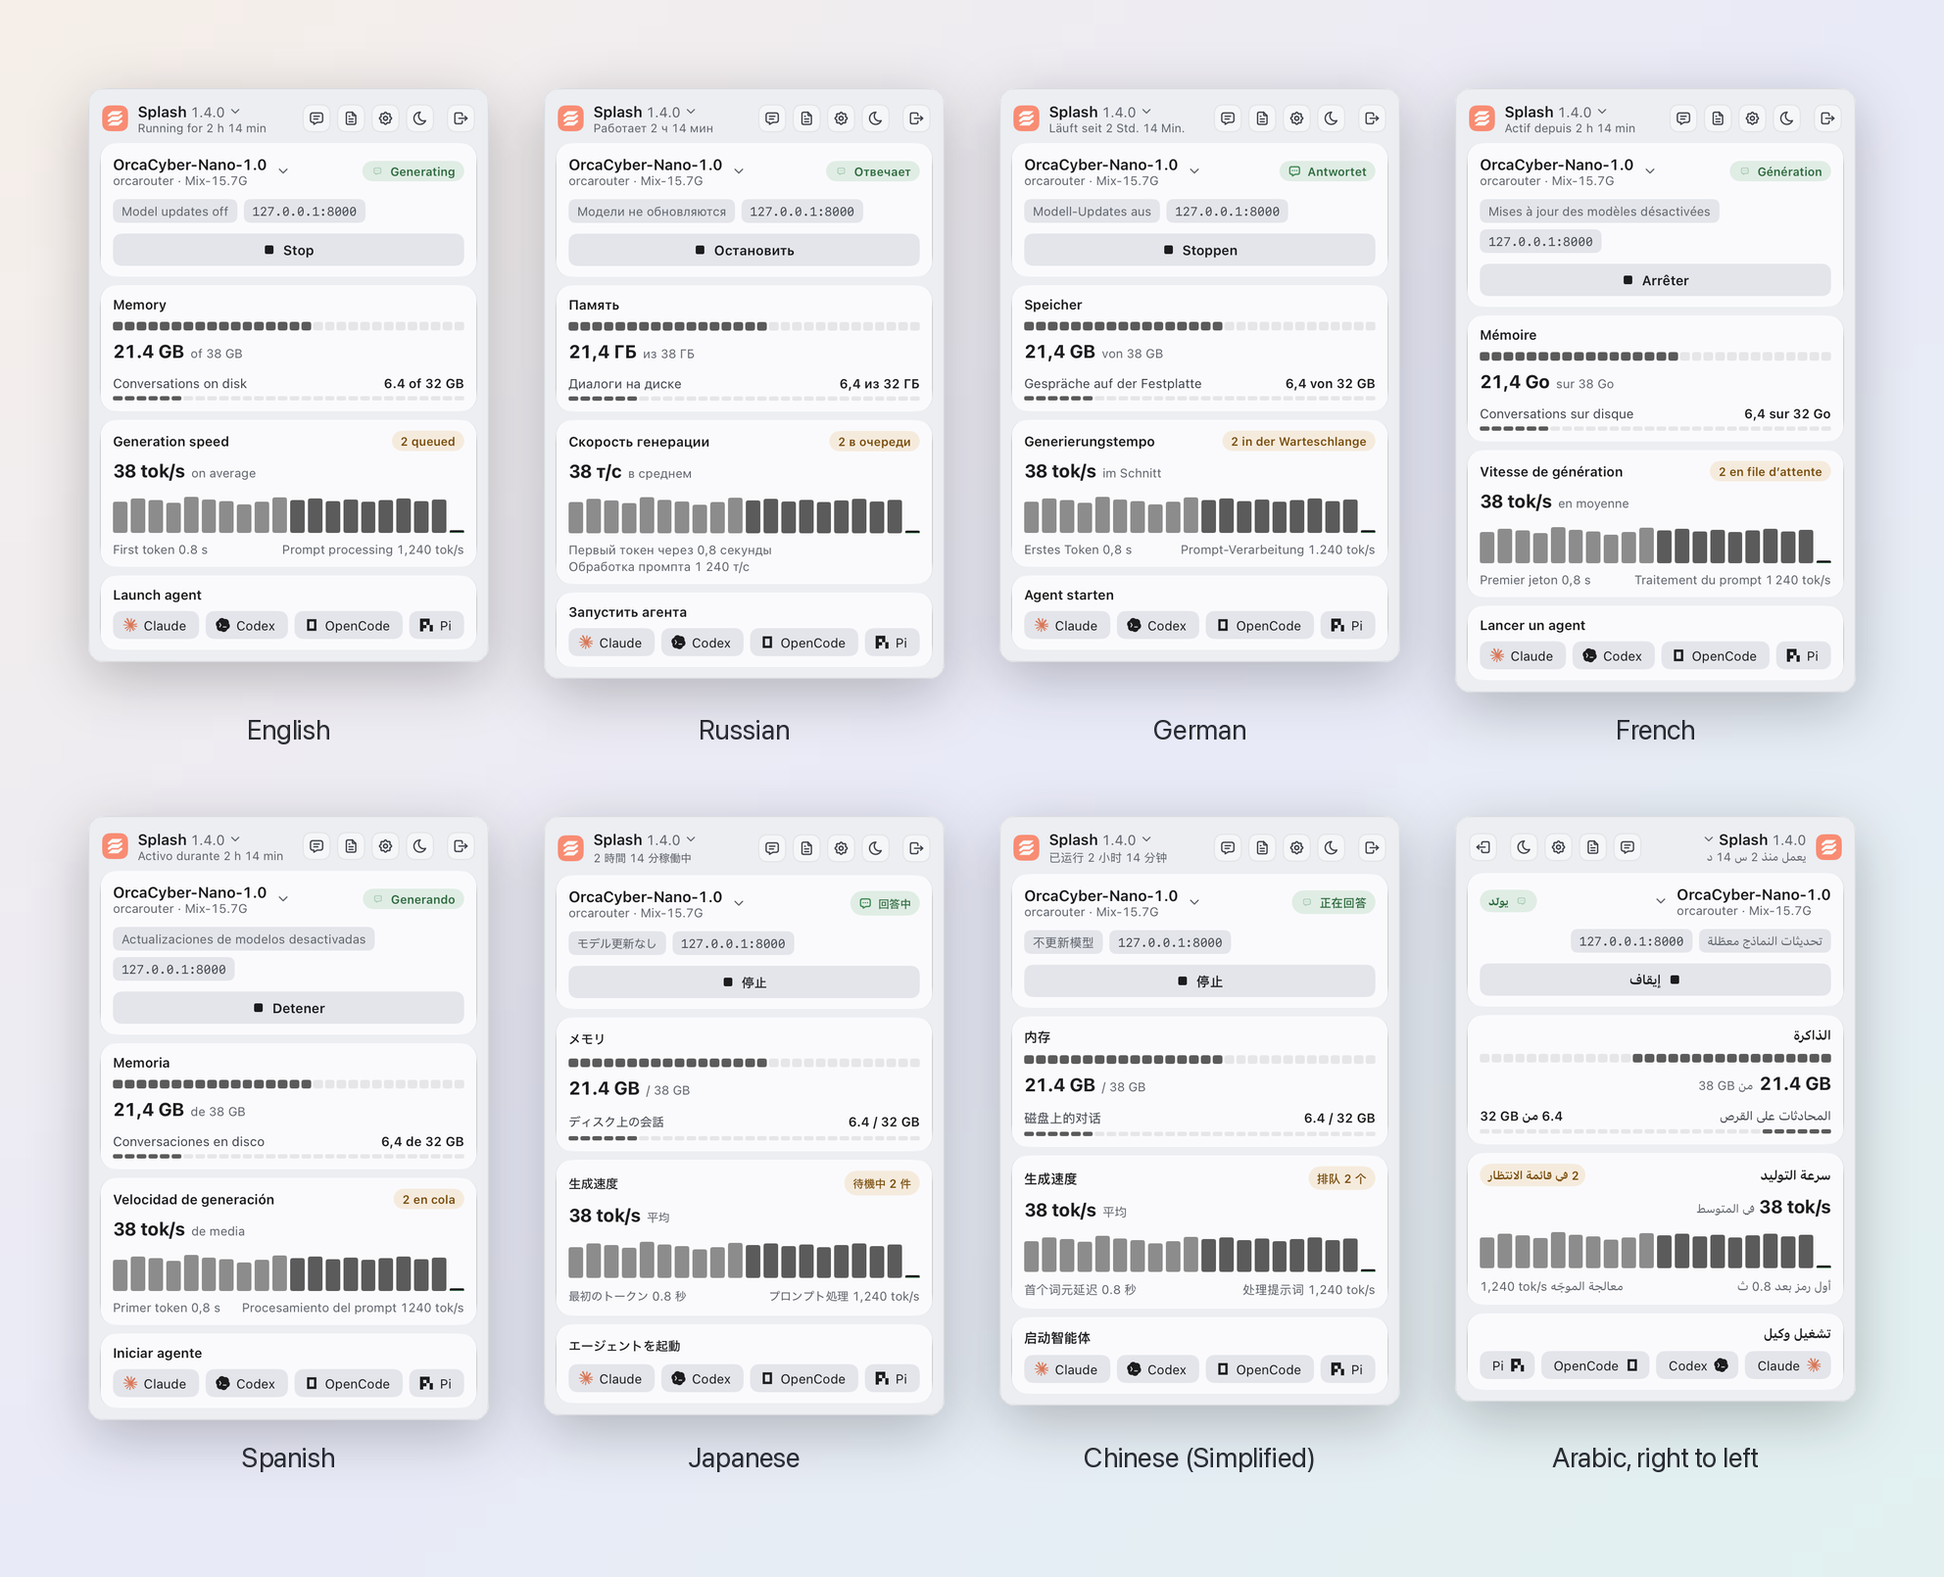
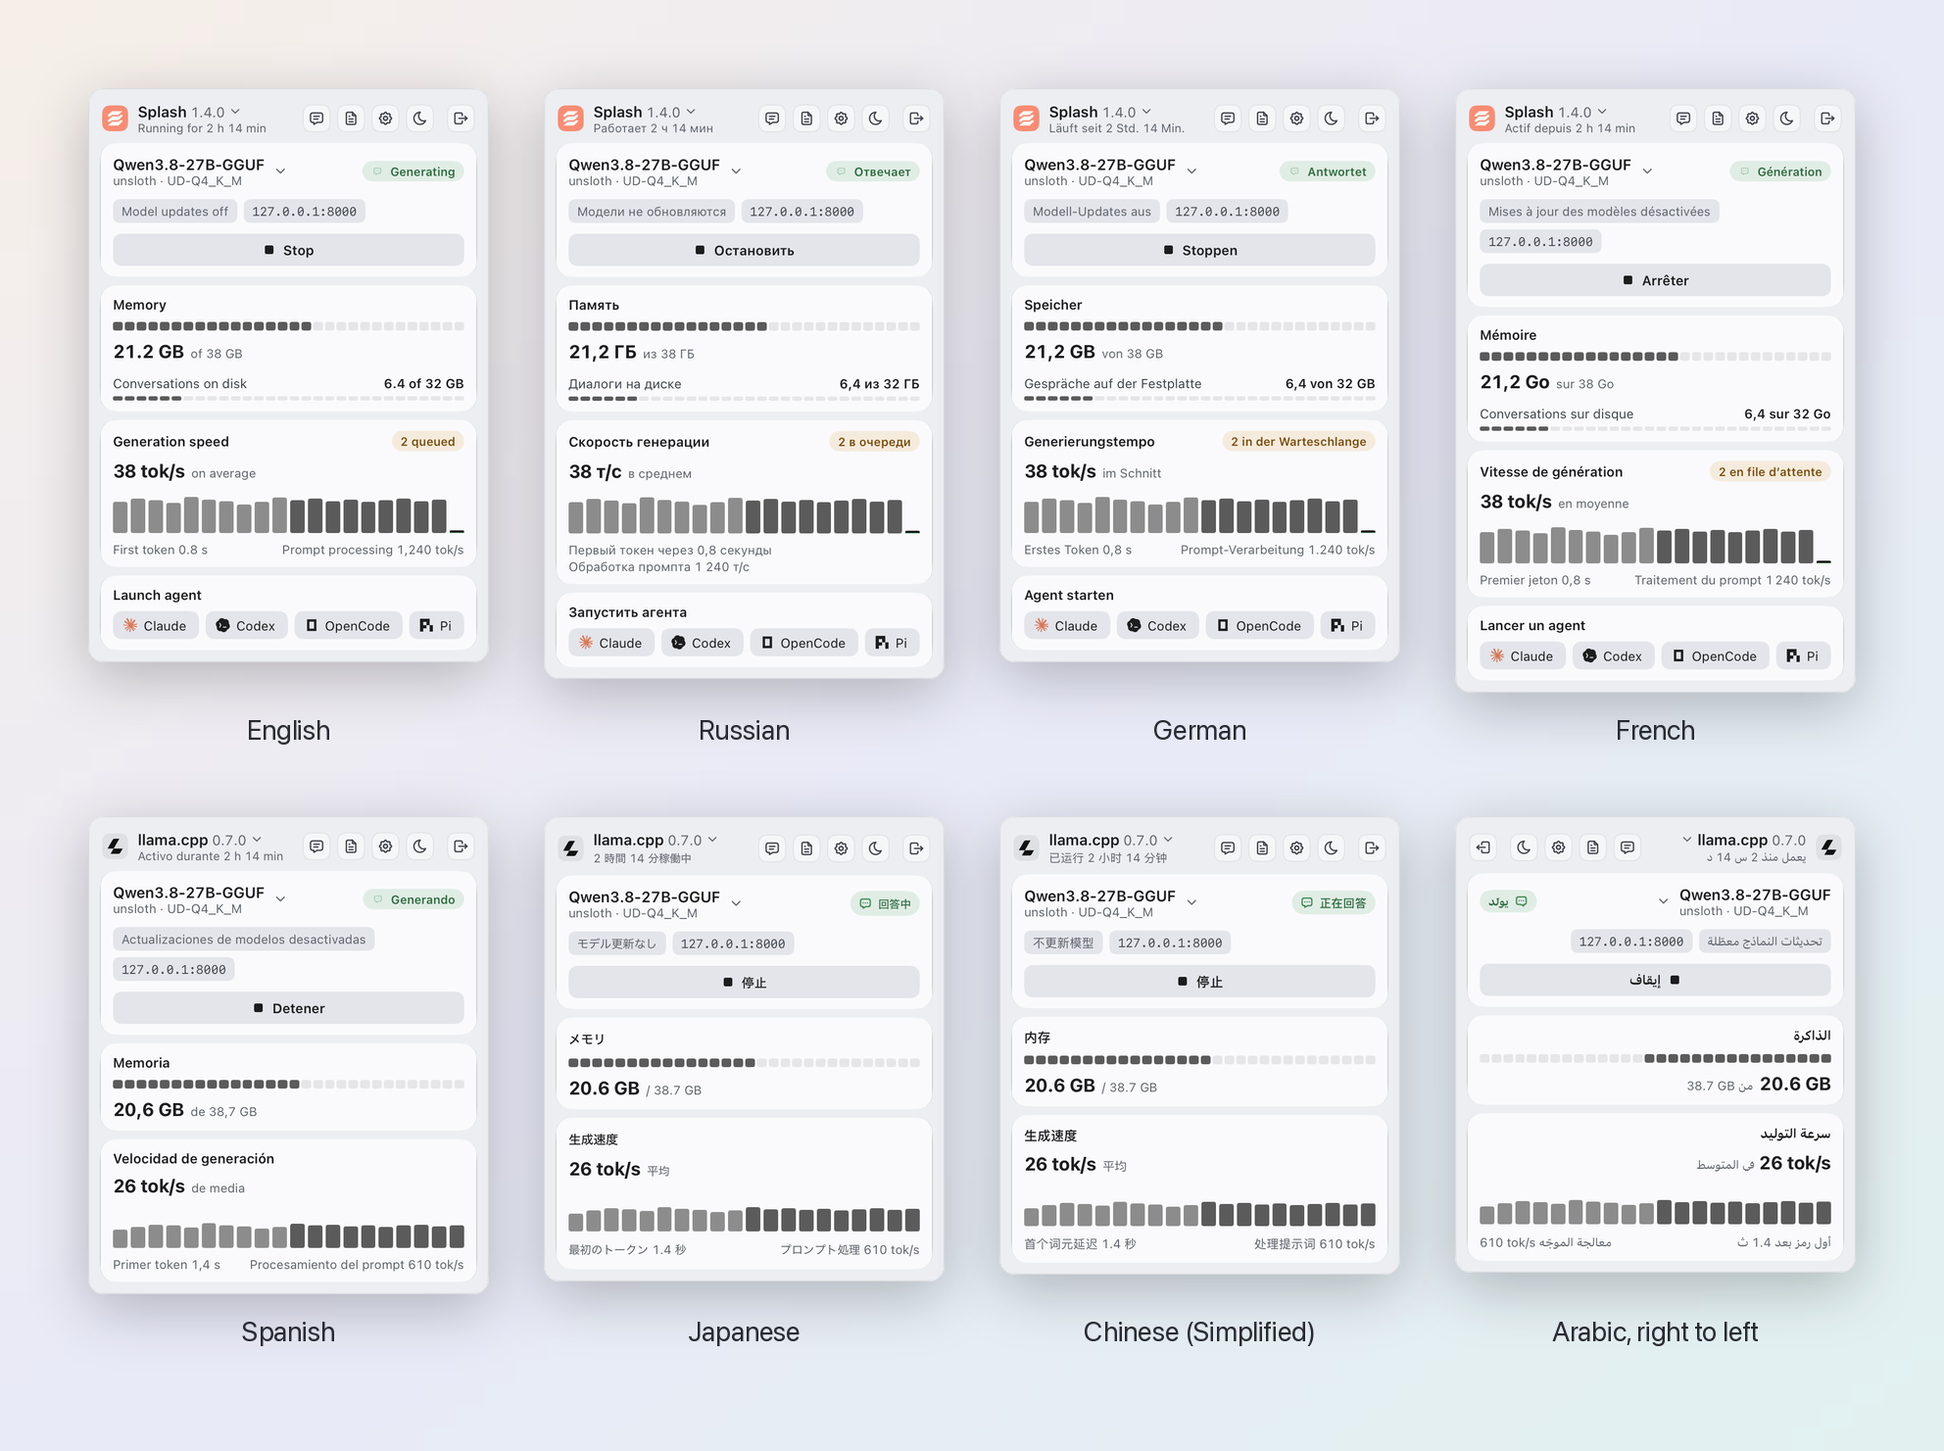
README: screenshots of both engines with Qwen3.8-27B, light and dark side by side
The README boards (readme-* in internal/panel/readme_test.go) run
Qwen3.8-27B and Qwen3.6-35B-A3B under llama.cpp and Splash: the hero is
llama.cpp downloading and generating beside Splash looking up variants,
the features and the languages mix the engines, the menu-bar strip takes
turns. llama.cpp shows memory in the menu bar while it generates, as it
reports no live speed. A new themes.png shows one panel in both themes.

diff --git a/internal/panel/readme_test.go b/internal/panel/readme_test.go
@@ -1,0 +1,185 @@
+package panel
+
+import (
+	"slices"
+	"time"
+
+	"github.com/egoist/mygo/ui"
+
+	"github.com/kotuke/lumilo/internal/core"
+	"github.com/kotuke/lumilo/internal/engine"
+	"github.com/kotuke/lumilo/internal/engines/llamacpp"
+	"github.com/kotuke/lumilo/internal/format"
+	"github.com/kotuke/lumilo/internal/hf"
+	"github.com/kotuke/lumilo/locales"
+)
+
+// The README's models: the two Qwen models Lumilo suggests, at the sizes of
+// unsloth's UD-Q4_K_M files on Hugging Face (2026-10-28).
+var (
+	qwen38Llama = engine.Model{ID: "/hub/models--unsloth--Qwen3.8-27B-GGUF/snapshots/c/Qwen3.8-27B-UD-Q4_K_M.gguf",
+		Name: "Qwen3.8-27B-GGUF", Owner: "unsloth", Variant: "UD-Q4_K_M", SizeBytes: 16_464_440_224,
+		ContextLength: 262144}
+	qwen36Llama = engine.Model{ID: "/hub/models--unsloth--Qwen3.6-35B-A3B-GGUF/snapshots/c/Qwen3.6-35B-A3B-UD-Q4_K_M.gguf",
+		Name: "Qwen3.6-35B-A3B-GGUF", Owner: "unsloth", Variant: "UD-Q4_K_M", SizeBytes: 22_134_528_992,
+		ContextLength: 262144}
+	qwen38Splash = engine.Model{ID: "unsloth/Qwen3.8-27B-GGUF:UD-Q4_K_M", Name: "Qwen3.8-27B-GGUF",
+		Owner: "unsloth", Variant: "UD-Q4_K_M", SizeBytes: 16_464_440_224, ContextLength: 262144,
+		Features: engine.Features{Vision: true, VisionBytes: 927_606_848, Drafts: []engine.Draft{{
+			Kind: engine.DraftDFlash, Name: "incoai/Qwen3.8-27B-DFlash2", ID: "incoai/Qwen3.8-27B-DFlash2",
+			SizeBytes: 1_266_000_000, Always: true}}}}
+	qwen36Splash = engine.Model{ID: "unsloth/Qwen3.6-35B-A3B-GGUF:UD-Q4_K_M", Name: "Qwen3.6-35B-A3B-GGUF",
+		Owner: "unsloth", Variant: "UD-Q4_K_M", SizeBytes: 22_134_528_992, ContextLength: 262144}
+	// qwen36Download is Qwen3.6-35B-A3B as typed, before its files are on disk.
+	qwen36Download = engine.Model{ID: "unsloth/Qwen3.6-35B-A3B-GGUF:UD-Q4_K_M", Owner: "unsloth",
+		Name: "Qwen3.6-35B-A3B-GGUF", Variant: "UD-Q4_K_M"}
+)
+
+// qwen36Variants are some of unsloth/Qwen3.6-35B-A3B-GGUF's files.
+var qwen36Variants = []hf.Variant{
+	{Tag: "UD-Q4_K_M", Bytes: 22_134_528_992, Parts: 1},
+	{Tag: "UD-IQ4_XS", Bytes: 17_730_509_792, Parts: 1},
+	{Tag: "MXFP4_MOE", Bytes: 21_706_144_736, Parts: 1},
+	{Tag: "UD-Q6_K", Bytes: 29_308_320_736, Parts: 1},
+	{Tag: "Q8_0", Bytes: 36_903_140_320, Parts: 1},
+}
+
+// readmeLlama is llama.cpp serving Qwen3.8-27B: a dense 27B model runs
+// slower than the mockup's sample, and llama.cpp reports no budget nor
+// conversations on disk.
+func readmeLlama(ph core.Phase) core.View {
+	v := llamaView()
+	v.Phase = ph
+	v.Model, v.Models = qwen38Llama, []engine.Model{qwen38Llama, qwen36Llama}
+	v.Snapshot.Model, v.Snapshot.MemoryUsed = qwen38Llama.ID, 20_100_000_000
+	v.Speed.History = nil
+	for _, s := range sampleHistory {
+		v.Speed.History = append(v.Speed.History, s*0.68)
+	}
+	v.Speed.Average, v.Speed.FirstToken, v.Speed.Read = 26, 1400*time.Millisecond, 610
+	if ph == core.PhaseGenerating {
+		// llama-server counts a request's tokens when it ends: no live speed.
+		v.Snapshot.MemoryUsed, v.Snapshot.Active = 20_600_000_000, 1
+	}
+	return v
+}
+
+// readmeSplash is Splash serving Qwen3.8-27B with its DFlash2 draft.
+func readmeSplash(ph core.Phase) core.View {
+	v := withPhase(ph)
+	v.Model, v.Models = qwen38Splash, []engine.Model{qwen38Splash, qwen36Splash}
+	v.Snapshot.Model = qwen38Splash.ID
+	if ph == core.PhaseGenerating || ph == core.PhaseReady {
+		v.Snapshot.MemoryUsed = 21_200_000_000
+	}
+	return v
+}
+
+// readmeBoards are the README's pictures: both engines, the Qwen models.
+// The other boards keep their fixtures; these only show.
+func readmeBoards() []board {
+	en := locales.In("en")
+	out := []board{
+		// llama.cpp serves Qwen3.8-27B while Qwen3.6-35B-A3B downloads.
+		{name: "readme-llama-downloading", build: func(b *bench) {
+			b.rec.eng = llamacpp.New()
+			v := withJob(readmeLlama(core.PhaseReady), qwen36Download, core.DownloadRunning, 8_400_000_000, 22_134_528_992)
+			v.Models = v.Models[:1]
+			// Served for 25 minutes before the download started.
+			served := v
+			served.Downloads = nil
+			b.show(served, 25*time.Minute)
+			b.show(v, 0)
+			b.click("Qwen3.8-27B-GGUF")
+			b.clock = b.clock.Add(10 * time.Second)
+			v.Downloads[0].Done = 9_000_000_000
+			b.p.SetView(v)
+			b.tt.Frame()
+		}, check: func(b *bench) {
+			b.want("llama.cpp 0.7.0", "Qwen3.6-35B-A3B", "9 of 22.1 GB · 60 MB/s · "+en.DlLeft("4 min"))
+		}},
+		{name: "readme-llama-generating", build: func(b *bench) {
+			b.show(readmeLlama(core.PhaseGenerating), 3*time.Hour+5*time.Minute)
+		}, check: func(b *bench) {
+			b.want("llama.cpp 0.7.0", "Qwen3.8-27B-GGUF", "unsloth · UD-Q4_K_M", "Generating", "20.6 GB")
+		}},
+		// Splash with Qwen3.8-27B looks up Qwen3.6-35B-A3B's files.
+		{name: "readme-splash-variants", build: func(b *bench) {
+			b.show(readmeSplash(core.PhaseStopped), 0)
+			b.click("Qwen3.8-27B-GGUF")
+			b.click(b.m.AddModel())
+			b.tt.Frame()
+			b.typeText("unsloth/Qwen3.6-35B-A3B-GGUF:")
+			b.p.SetModelVariants("unsloth/Qwen3.6-35B-A3B-GGUF", qwen36Variants)
+			b.tt.Frame()
+			b.tt.Key(0, ui.KeyDown)
+		}, check: func(b *bench) {
+			b.want("Splash 1.4.0", "UD-Q4_K_M", "22.1 GB", "Q8_0")
+		}},
+		// The header switches the engine.
+		{name: "readme-engines", build: func(b *bench) {
+			b.rec.eng = llamacpp.New()
+			b.show(readmeLlama(core.PhaseReady), time.Hour)
+			b.openEngines("llama.cpp 0.7.0")
+		}, check: func(b *bench) {
+			b.want("Splash", "llama.cpp", "1.4.0", "0.7.0")
+		}},
+		// Splash's model list: image input and the DFlash2 draft it always runs.
+		{name: "readme-splash-models", build: func(b *bench) {
+			b.show(readmeSplash(core.PhaseReady), 40*time.Minute)
+			b.click("Qwen3.8-27B-GGUF")
+		}, check: func(b *bench) {
+			b.want("Splash 1.4.0", "UD-Q4_K_M · 16.5 GB", "Qwen3.6-35B-A3B-GGUF", "Image input: on",
+				"Speculative decoding: on")
+		}},
+		// llama.cpp open to the network, with its key and context.
+		{name: "readme-llama-network", build: func(b *bench) {
+			pr := defaultPrefs()
+			pr.Access, pr.APIKey = engine.AccessNetwork, "sk-lumilo-0000000000003f9a"
+			b.p.SetPrefs(pr)
+			b.rec.eng = llamacpp.New()
+			v := readmeLlama(core.PhaseReady)
+			v.Access, v.Address = engine.AccessNetwork, "192.168.1.20:8000"
+			b.show(v, time.Hour)
+			b.click("Settings")
+		}, check: func(b *bench) {
+			b.want("Engine", "llama.cpp", "API key", "The model’s native context is 256K")
+		}},
+		// Delete Qwen3.6-35B-A3B from Splash: the dialog says what it frees.
+		{name: "readme-splash-remove", build: func(b *bench) {
+			b.show(readmeSplash(core.PhaseReady), time.Hour)
+			b.click("Qwen3.8-27B-GGUF")
+			b.click(en.RmLabel(qwen36Splash.Name))
+			v := readmeSplash(core.PhaseReady)
+			v.Removal = core.Removal{Model: qwen36Splash.ID, Counted: true,
+				Plan: engine.RemovePlan{Bytes: 23_037_000_000, Shared: true}}
+			b.show(v, 0)
+		}, check: func(b *bench) {
+			b.called("PlanRemove " + qwen36Splash.ID)
+			b.want(en.RmTitle(qwen36Splash.Name), en.RmFrees("23 GB"))
+		}},
+	}
+	// The languages, Splash in the first row of the README's collage and
+	// llama.cpp in the second.
+	for i, lang := range []string{"en", "ru", "de", "fr", "es", "ja", "zh-Hans", "ar"} {
+		view := readmeSplash
+		if i >= 4 {
+			view = readmeLlama
+		}
+		out = append(out, board{name: "readme-lang-" + lang, lang: lang,
+			build: func(b *bench) {
+				if i >= 4 {
+					b.rec.eng = llamacpp.New()
+				}
+				b.show(view(core.PhaseGenerating), 2*time.Hour+14*time.Minute)
+			},
+			check: func(b *bench) {
+				b.want(b.m.PillGenerating(), b.m.SpeedTitle(), b.m.Memory(), b.m.ActStop(),
+					b.m.SubGenerating(format.ShortDuration(lang, 2*time.Hour+14*time.Minute)))
+				if i < 4 && !slices.Contains(b.tt.Texts(), b.m.AgentsTitle()) {
+					b.t.Error("no agents under Splash")
+				}
+			}})
+	}
+	return out
+}

diff --git a/scripts/readme-images.py b/scripts/readme-images.py
@@ -29,20 +29,26 @@ LANGS = [
     ("ar", "Arabic, right to left"),
 ]
 
+# Both engines take turns: the README's own boards (readme-* in
+# internal/panel/readme_test.go) run Qwen3.8-27B under llama.cpp and Splash.
 FEATURES = [
     ("suggestions", "First run: models that fit"),
-    ("settings-network-en", "Network access with an API key"),
-    ("picker-remove-dialog", "Delete with the space it frees"),
-    ("llamacpp-ready", "llama.cpp as the engine"),
+    ("readme-splash-models", "Image input and speculative decoding"),
+    ("readme-llama-network", "Network access with an API key"),
+    ("readme-splash-remove", "Delete with the space it frees"),
 ]
 
 # Boards taller than the others, cut to this height (2x pixels).
-CROP = {"settings-network-en": 1062}
+CROP = {"readme-llama-network": 1062}
 
-# The hero: a model downloading, the server generating, the model search.
-HERO = ["picker-downloading", "generating", "add-model-variants"]
+# The hero: llama.cpp with a model downloading and generating, Splash
+# looking up a model's files.
+HERO = ["readme-llama-downloading", "readme-llama-generating", "readme-splash-variants"]
 
-BOARDS = HERO + ["main-"] + [b for b, _ in FEATURES]
+# The same panels in the light and the dark theme, side by side.
+THEMED = [("readme-engines", "light", "Light"), ("readme-engines", "dark", "Dark")]
+
+BOARDS = HERO + ["readme-lang-"] + [b for b, _ in FEATURES] + [b for b, _, _ in THEMED]
 
 THEMES = {
     "dark": {"stops": [(15, 17, 26), (31, 27, 52), (16, 38, 48)], "text": (232, 233, 238), "shadow": 150},
@@ -50,11 +56,12 @@ THEMES = {
 }
 
 
-# The menu-bar icon in each state, with its caption.
+# The menu-bar icon in each state, with its caption; Splash and llama.cpp
+# take turns.
 TRAY = [
-    ("generating", "Generating: live speed"), ("ready", "Ready: memory in use"),
-    ("loading", "Loading"), ("released", "Unloaded when idle"),
-    ("stopped", "Stopped"), ("error", "Failed to start"),
+    ("generating", "Generating: live speed"), ("ready-llamacpp", "Ready: memory in use"),
+    ("loading", "Loading"), ("released-llamacpp", "Unloaded when idle"),
+    ("stopped", "Stopped"), ("error-llamacpp", "Failed to start"),
 ]
 
 
@@ -94,7 +101,7 @@ def menubar(canvas, dir, theme, h, icon_cx, scale):
         x += d.textlength(word, font=f) + 40 * scale
     clock = "Wed 28 Oct  14:32"
     d.text((canvas.width - 36 * scale, y), clock, font=font, fill=ink, anchor="rm")
-    icon = tray(dir, "generating", theme, scale / 2)
+    icon = tray(dir, "generating-llamacpp", theme, scale / 2)
     # The icon is highlighted while its panel is open.
     hl = (icon_cx - icon.width / 2 - 10 * scale, 4 * scale, icon_cx + icon.width / 2 + 10 * scale, h - 4 * scale)
     over = Image.new("RGBA", canvas.size, (0, 0, 0, 0))
@@ -217,6 +224,23 @@ def grid(dir, theme, items, cols, scale, name):
     save(c, f"{name}-{theme}.png")
 
 
+def themes(dir):
+    """A panel in each theme, each on its own half of the gradient."""
+    ims = [(panel(dir, b, theme, 0.75), theme, text) for b, theme, text in THEMED]
+    cw = max(im.width for im, _, _ in ims)
+    ch = max(im.height for im, _, _ in ims)
+    margin, cap = 110, 70
+    half = cw + 2 * margin
+    h = ch + cap + 2 * margin
+    c = Image.new("RGBA", (2 * half, h))
+    for i, (im, theme, text) in enumerate(ims):
+        t = THEMES[theme]
+        c.paste(gradient(half, h, t["stops"]), (i * half, 0))
+        place(c, im, i * half + margin + (cw - im.width) // 2, margin, t["shadow"])
+        label(c, text, i * half + half / 2, margin + ch + 20, t["text"])
+    save(c, "themes.png")
+
+
 def main():
     os.makedirs(OUT, exist_ok=True)
     with tempfile.TemporaryDirectory() as dir:
@@ -224,9 +248,10 @@ def main():
         for theme in THEMES:
             hero(dir, theme)
             states(dir, theme)
-            grid(dir, theme, [("main-" + code, name) for code, name in LANGS], 4, 0.55, "languages")
+            grid(dir, theme, [("readme-lang-" + code, name) for code, name in LANGS], 4, 0.55, "languages")
             grid(dir, theme, FEATURES, 4, 0.6, "features")
         hero(dir, "dark", "social", 2)
+        themes(dir)
 
 
 if __name__ == "__main__":

diff --git a/internal/trayicon/shot_test.go b/internal/trayicon/shot_test.go
@@ -25,9 +25,19 @@ func TestTrayShot(t *testing.T) {
 		"generating": core.PhaseGenerating, "ready": core.PhaseReady, "loading": core.PhaseLoading,
 		"released": core.PhaseReleased, "stopped": core.PhaseStopped, "error": core.PhaseError,
 	}
+	views := map[string]core.View{}
 	for name, ph := range states {
+		views[name] = view(ph)
+		// The same under llama.cpp, as the README's hero shows it:
+		// llama-server counts a request's tokens when it ends, so a
+		// generating icon shows memory.
+		llama := view(ph)
+		llama.Engine, llama.Speed.Current, llama.Snapshot.MemoryUsed = "llama.cpp", 0, 20_600_000_000
+		views[name+"-llamacpp"] = llama
+	}
+	for name, v := range views {
 		for theme, dark := range map[string]bool{"dark": true, "light": false} {
-			b := PNG(For(view(ph), "en", dark))
+			b := PNG(For(v, "en", dark))
 			if err := os.WriteFile(filepath.Join(dir, name+"-"+theme+".png"), b, 0o644); err != nil {
 				t.Fatal(err)
 			}

diff --git a/internal/panel/panel_test.go b/internal/panel/panel_test.go
@@ -944,7 +944,7 @@ func allBoards() []board {
 	all = append(append(all, idleBoards()...), featureBoards()...)
 	all = append(append(all, reviewBoards()...), jobBoards()...)
 	all = append(append(all, chipBoards()...), langBoards()...)
-	all = append(all, removeBoards()...)
+	all = append(append(all, removeBoards()...), readmeBoards()...)
 	return append(all, choiceBoards()...)
 }
 

diff --git a/README.md b/README.md
@@ -17,7 +17,7 @@ and point coding agents at it, without a terminal.
 
 <picture>
   <source media="(prefers-color-scheme: dark)" srcset="docs/images/hero-dark.png">
-  <img src="docs/images/hero-light.png" alt="Lumilo panels: a model downloading, the server generating, the Hugging Face model search">
+  <img src="docs/images/hero-light.png" alt="Lumilo panels: llama.cpp serving Qwen3.8-27B while Qwen3.6-35B-A3B downloads, llama.cpp generating, Splash looking up a model's variants on Hugging Face">
 </picture>
 
 </div>
@@ -51,7 +51,7 @@ Settings. Engines are pluggable; mlx-serve is planned.
 
 <picture>
   <source media="(prefers-color-scheme: dark)" srcset="docs/images/features-dark.png">
-  <img src="docs/images/features-light.png" alt="First-run model suggestions, network settings with an API key, the delete dialog, llama.cpp running">
+  <img src="docs/images/features-light.png" alt="First-run model suggestions, Splash's model list with image input and speculative decoding, llama.cpp open to the network with an API key, the delete dialog">
 </picture>
 
 ## In the menu bar
@@ -59,11 +59,19 @@ Settings. Engines are pluggable; mlx-serve is planned.
 The icon tells the state without opening the panel: the bar fills with the
 memory the model takes, and the value is the live speed while it generates,
 the memory while it waits, or a sign when it loads, sleeps, stops or fails.
+llama.cpp counts a request's tokens when it ends, so under llama.cpp the icon
+shows memory while it generates.
 
 <picture>
   <source media="(prefers-color-scheme: dark)" srcset="docs/images/menubar-dark.png">
   <img src="docs/images/menubar-light.png" alt="The menu-bar icon: generating, ready, loading, unloaded when idle, stopped, failed to start">
 </picture>
+
+## Light and dark
+
+The panel follows the system theme, or the one you switch to in its header.
+
+<img src="docs/images/themes.png" alt="The same llama.cpp panel with the engine list open, in the light and the dark theme">
 
 ## Languages
 
@@ -72,7 +80,7 @@ Arabic. Lumilo follows the system language, or the one you pick in Settings.
 
 <picture>
   <source media="(prefers-color-scheme: dark)" srcset="docs/images/languages-dark.png">
-  <img src="docs/images/languages-light.png" alt="The Lumilo panel in eight languages">
+  <img src="docs/images/languages-light.png" alt="The Lumilo panel in eight languages: Splash in the first row, llama.cpp in the second">
 </picture>
 
 ## Install
